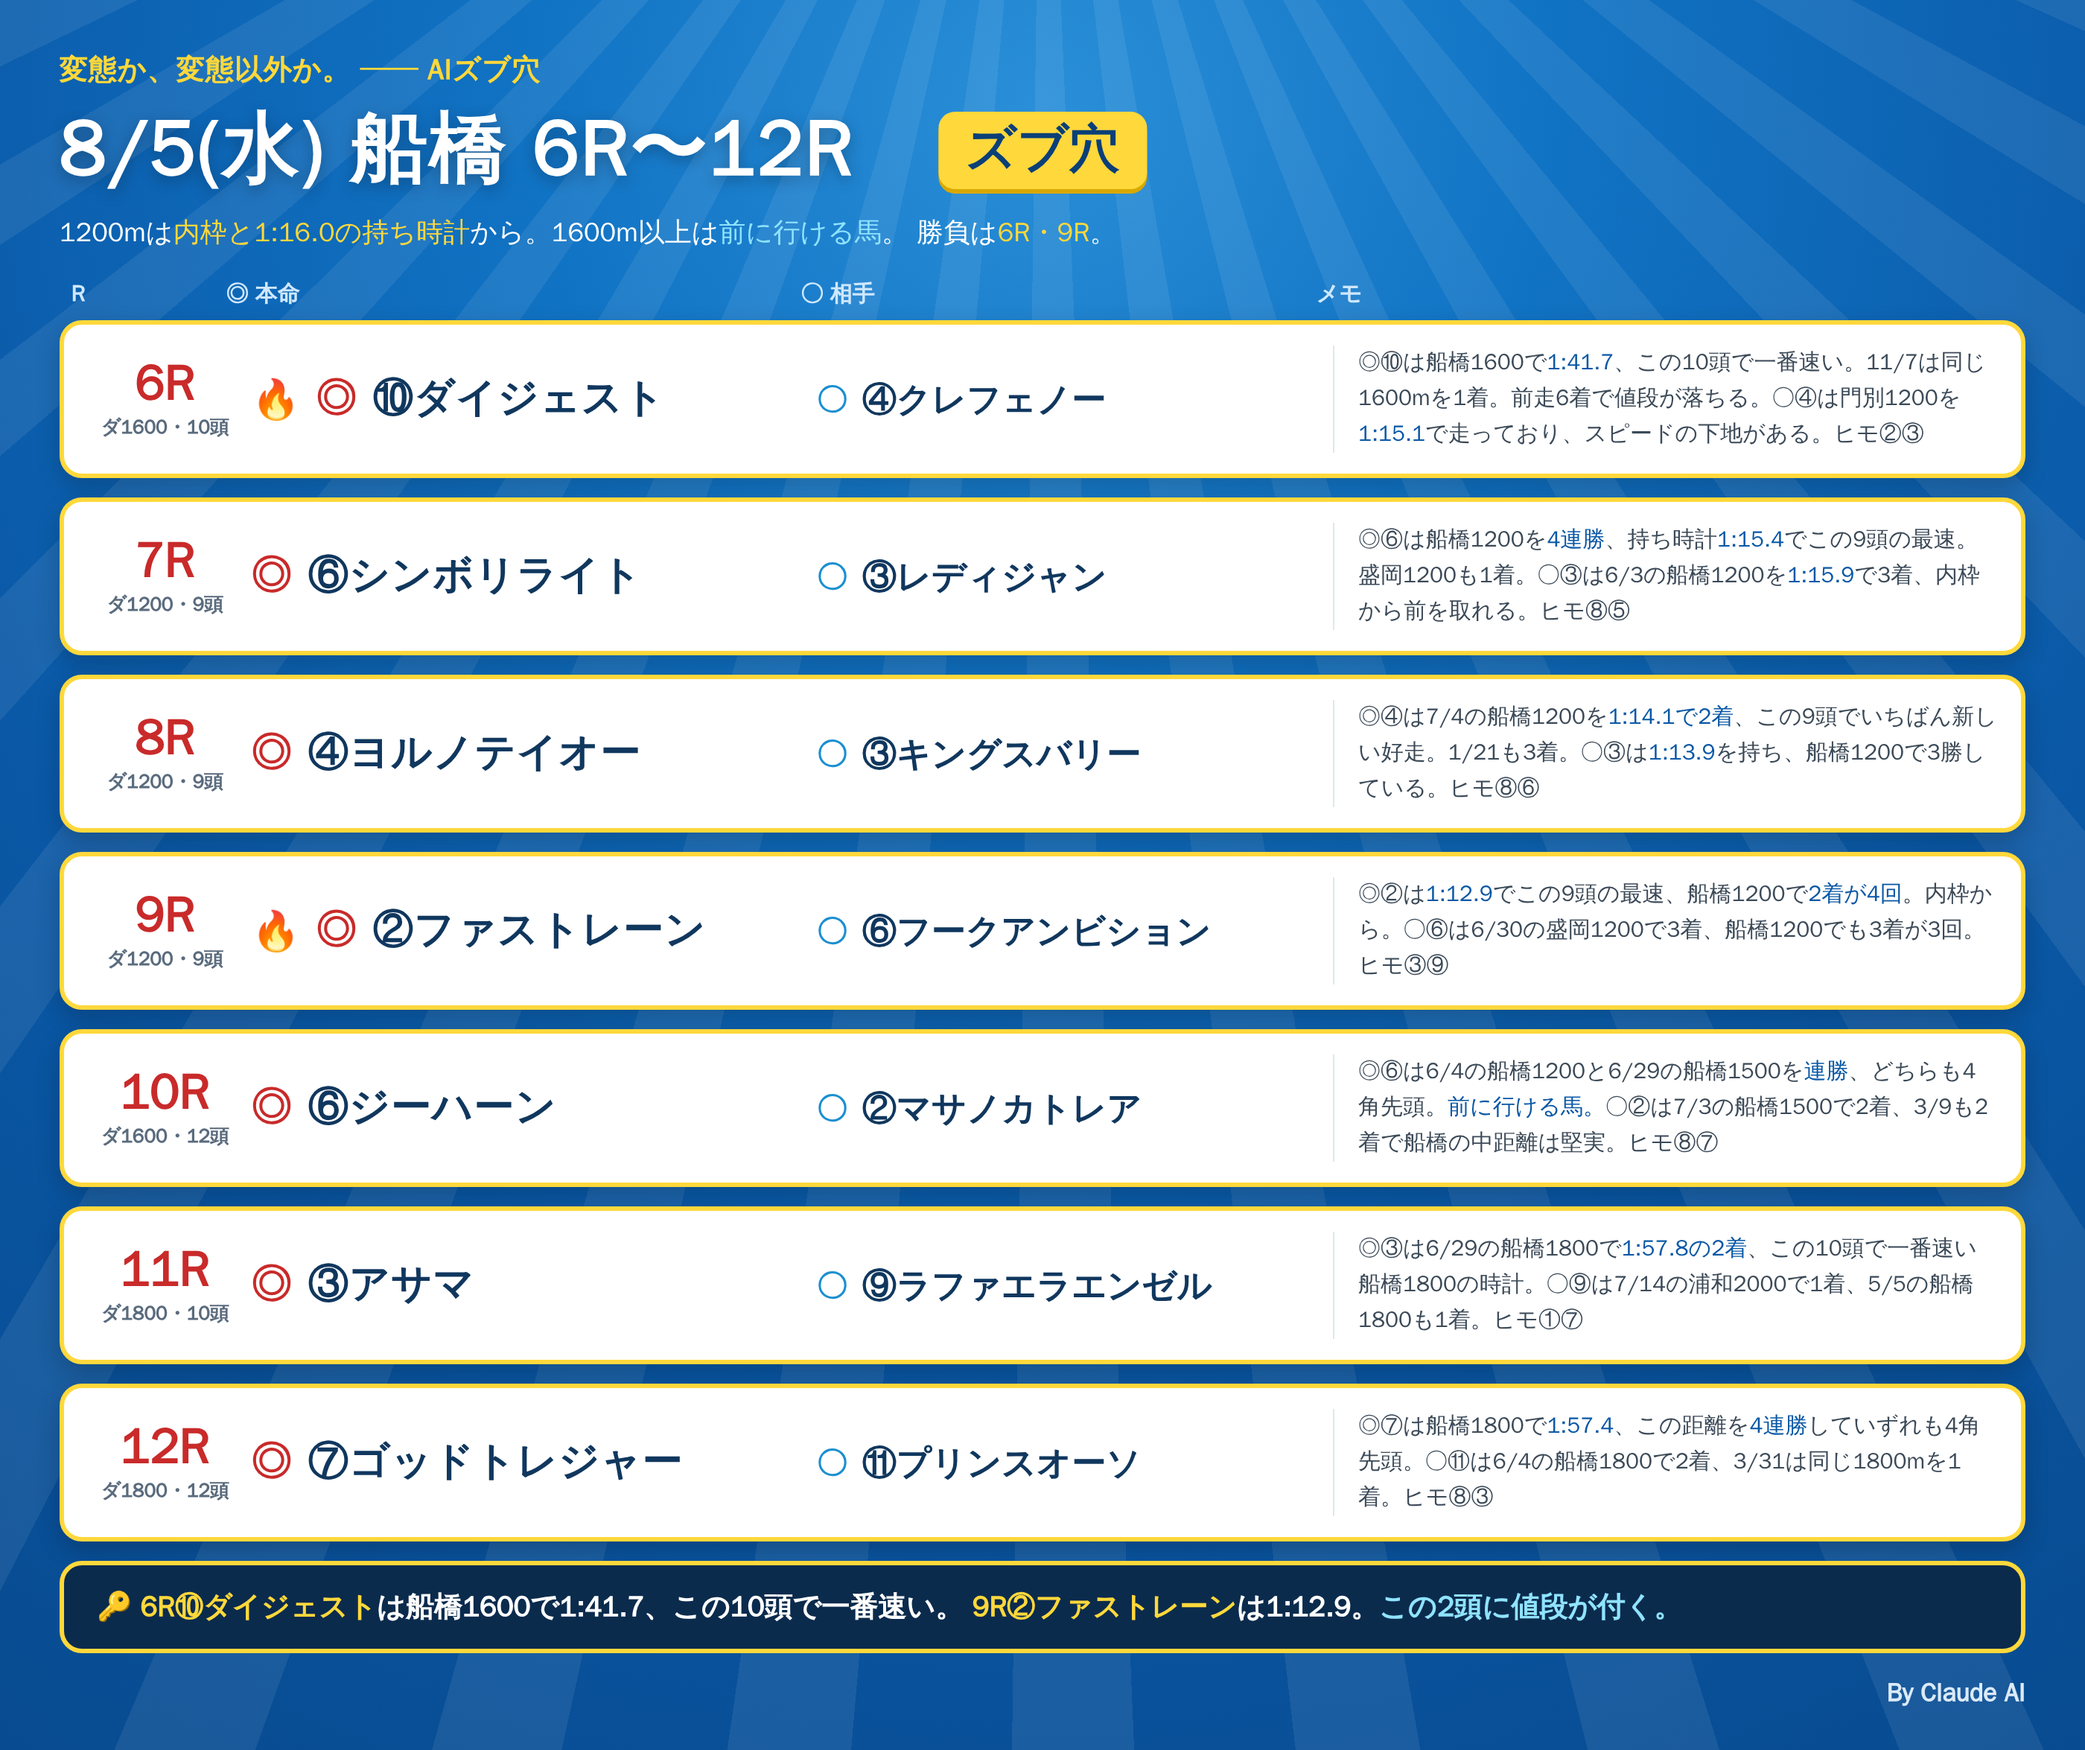
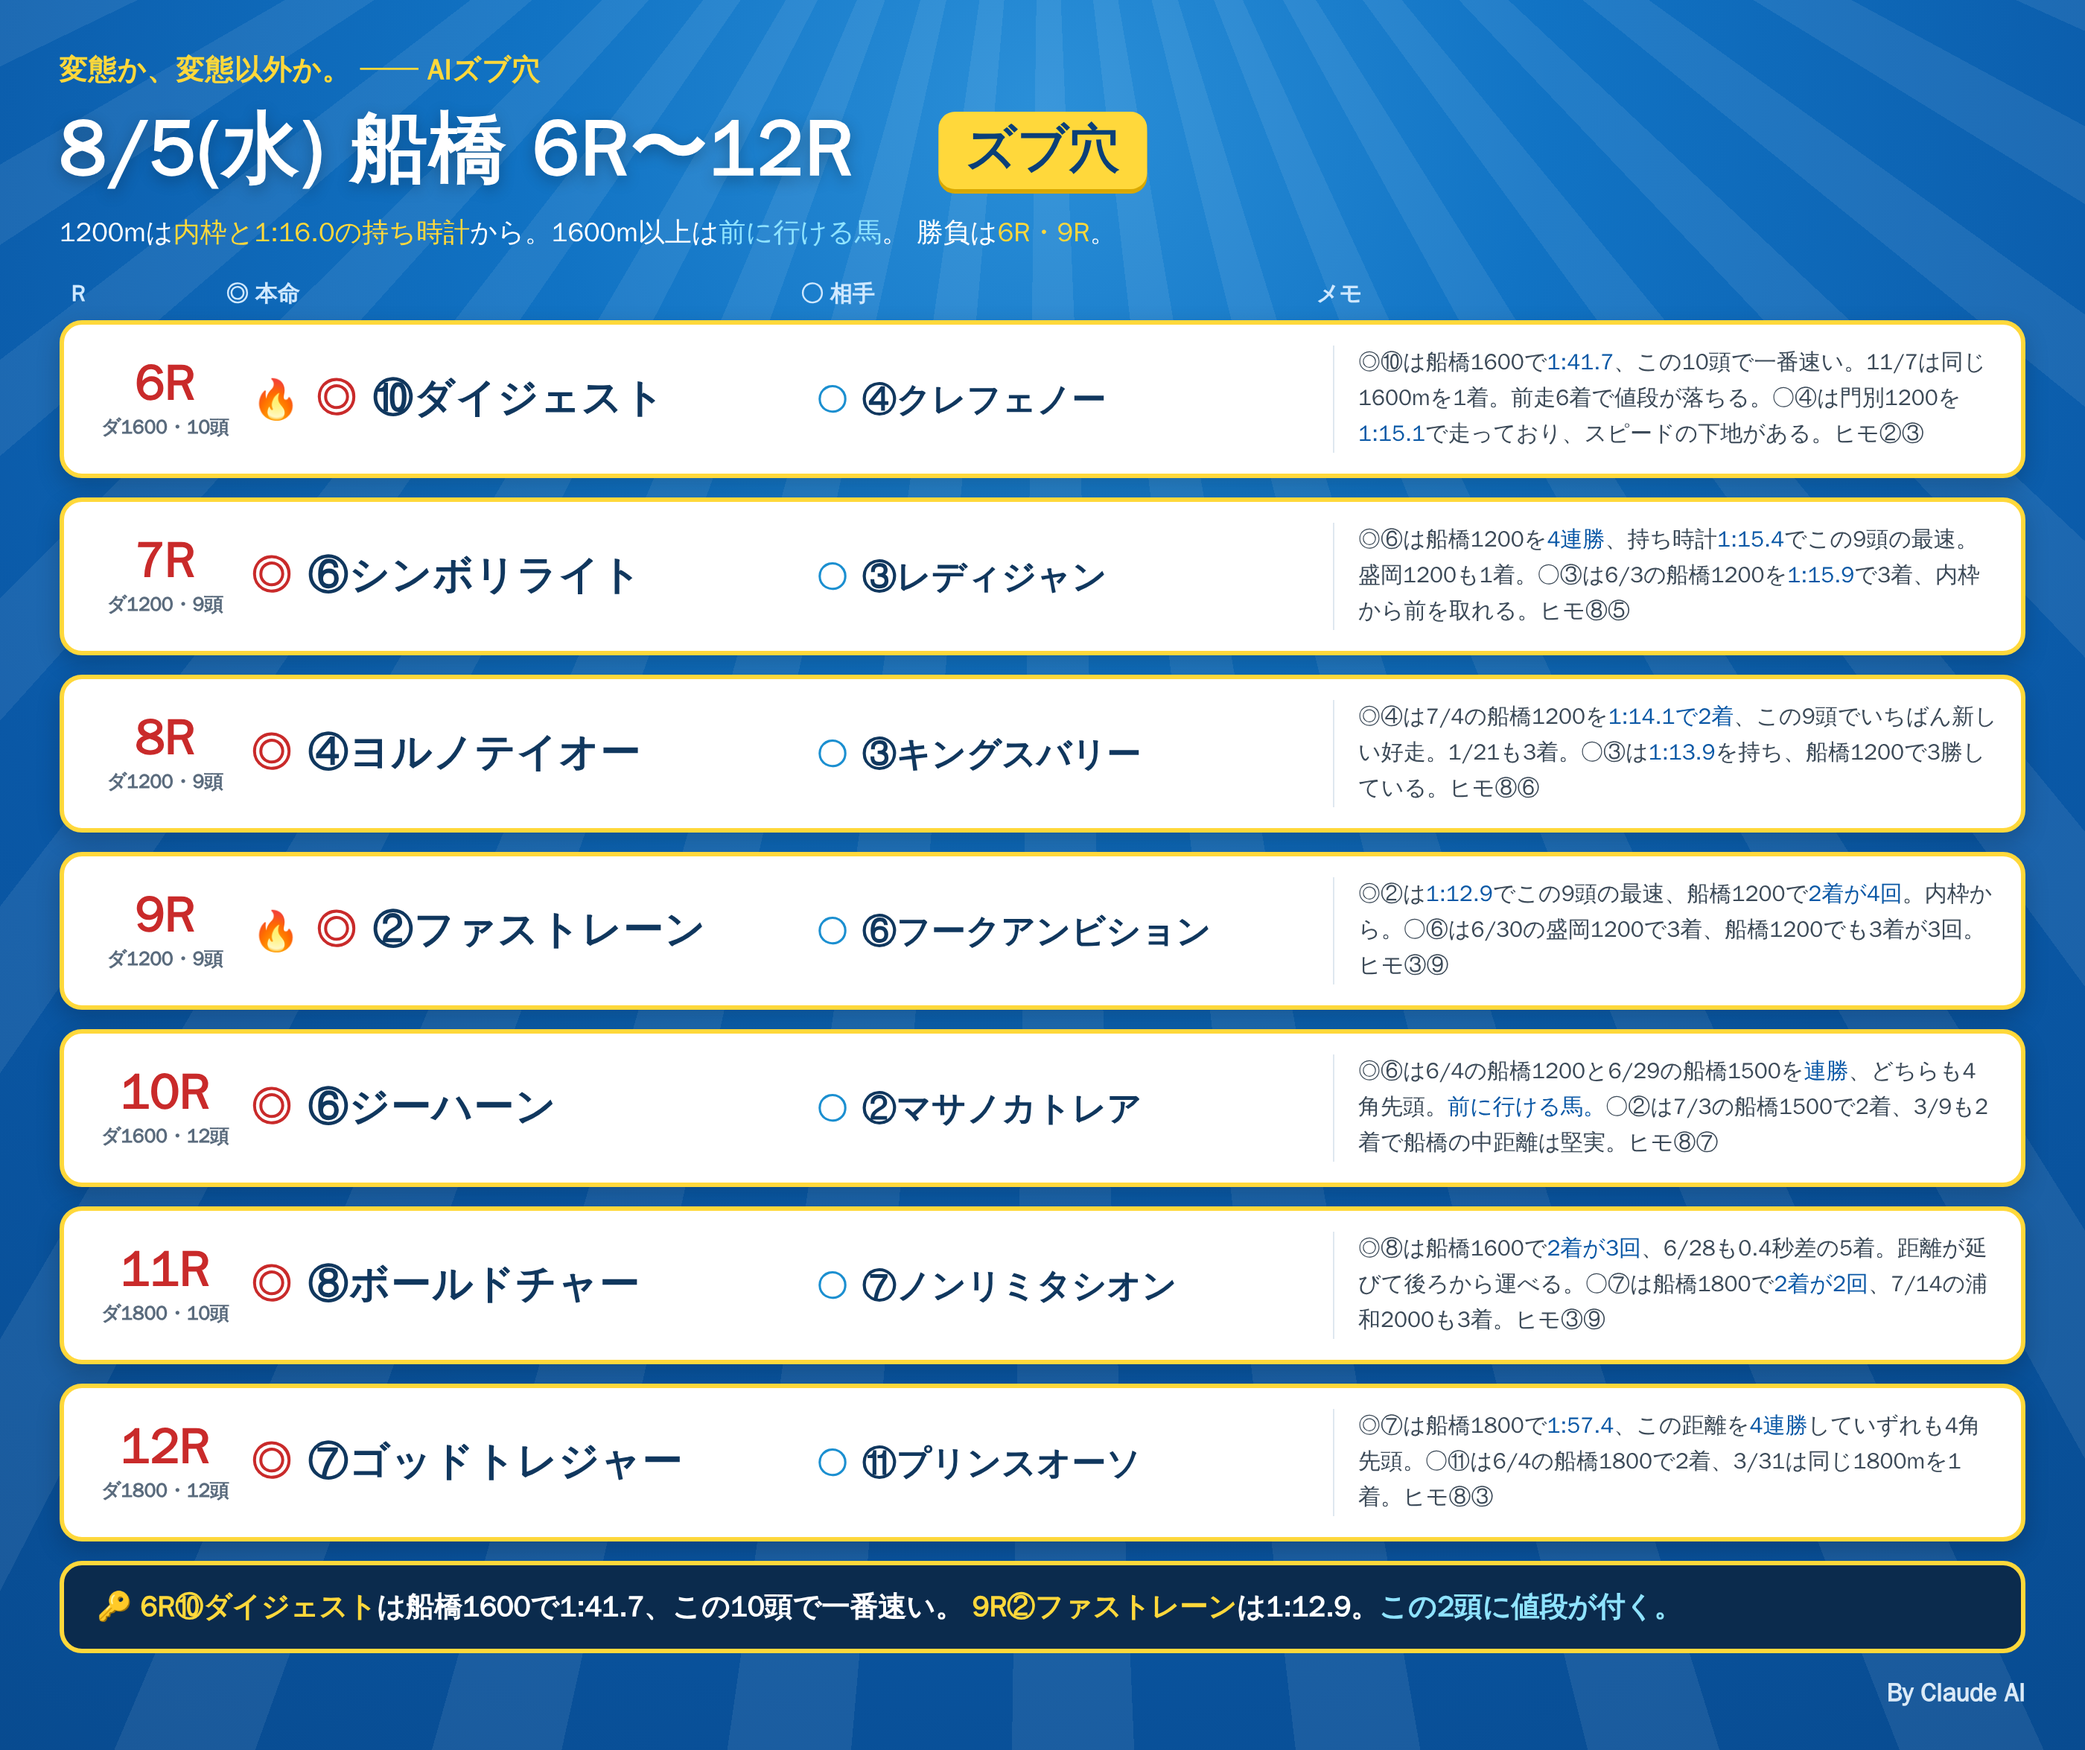
notes: main race marks to 8 and 7
Claude-Session: https://claude.ai/code/session_01RoHscZkr96FNaxQWvUqgEw

Changed region(s): [[0.6525, 0.6834, 0.9632, 0.7766], [0.4039, 0.7145, 0.5904, 0.7455], [0.1554, 0.7145, 0.2796, 0.7455]]

diff --git a/notes/live/2026-08-05/funabashi_6_12.html b/notes/live/2026-08-05/funabashi_6_12.html
@@ -90,9 +90,9 @@
 
   <div class="row">
     <div class="rN"><div class="n">11R</div><div class="d">ダ1800・10頭</div></div>
-    <div class="hm"><span class="mk">◎</span><span class="nm">③アサマ</span></div>
-    <div class="at"><span class="mk2">○</span><span class="nm2">⑨ラファエラエンゼル</span></div>
-    <div class="memo">◎③は6/29の船橋1800で<b>1:57.8の2着</b>、この10頭で一番速い船橋1800の時計。○⑨は7/14の浦和2000で1着、5/5の船橋1800も1着。ヒモ①⑦</div>
+    <div class="hm"><span class="mk">◎</span><span class="nm">⑧ボールドチャー</span></div>
+    <div class="at"><span class="mk2">○</span><span class="nm2">⑦ノンリミタシオン</span></div>
+    <div class="memo">◎⑧は船橋1600で<b>2着が3回</b>、6/28も0.4秒差の5着。距離が延びて後ろから運べる。○⑦は船橋1800で<b>2着が2回</b>、7/14の浦和2000も3着。ヒモ③⑨</div>
   </div>
 
   <div class="row">
